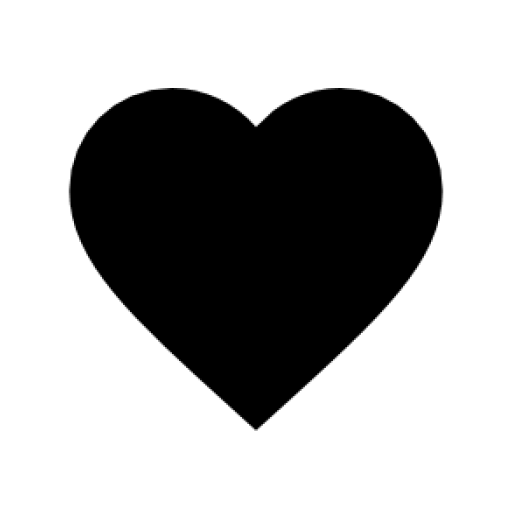
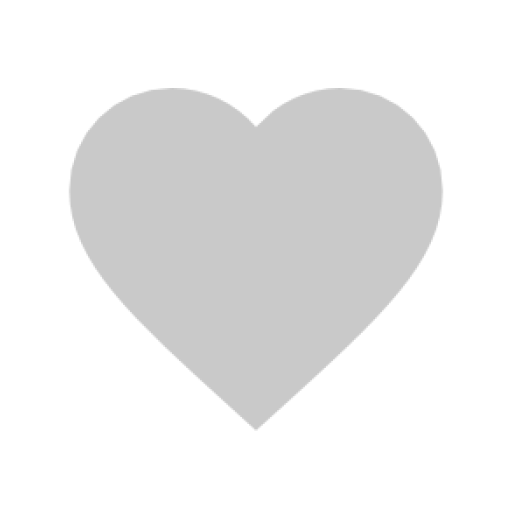
Post View Continue Part 15 - Complete

diff --git a/app/src/main/java/com/example/artem/photoblogtvaclesson/HomeFragment.java b/app/src/main/java/com/example/artem/photoblogtvaclesson/HomeFragment.java
@@ -25,92 +25,143 @@ import java.util.List;
 
 public class HomeFragment extends Fragment {
 
-    private RecyclerView postView;
-
-    private View view;
-
-    private List<BlogPost> blogPosts;
-    private BlogRecyclerAdapter adapter;
+    private RecyclerView blog_list_view;
+    private List<BlogPost> blog_list;
 
     private FirebaseFirestore firebaseFirestore;
-    private FirebaseAuth mAuth;
+    private FirebaseAuth firebaseAuth;
+    private BlogRecyclerAdapter blogRecyclerAdapter;
 
     private DocumentSnapshot lastVisible;
+    private Boolean isFirstPageFirstLoad = true;
 
     public HomeFragment() {
+        // Required empty public constructor
     }
 
-    @Nullable
+
     @Override
-    public View onCreateView(@NonNull LayoutInflater inflater, @Nullable final ViewGroup container, @Nullable Bundle savedInstanceState) {
-        view = inflater.inflate(R.layout.fragment_home, container, false);
+    public View onCreateView(LayoutInflater inflater, final ViewGroup container,
+                             Bundle savedInstanceState) {
 
-        postView = (RecyclerView) view.findViewById(R.id.post_view);
-        blogPosts = new ArrayList<>();
-        adapter = new BlogRecyclerAdapter(blogPosts);
-        postView.setLayoutManager(new LinearLayoutManager(getActivity()));
-        postView.setAdapter(adapter);
+        View view = inflater.inflate(R.layout.fragment_home, container, false);
 
-        mAuth = FirebaseAuth.getInstance();
+        blog_list = new ArrayList<>();
+        blog_list_view = view.findViewById(R.id.post_view);
 
-        if (mAuth.getCurrentUser() != null) {
+        firebaseAuth = FirebaseAuth.getInstance();
+
+        blogRecyclerAdapter = new BlogRecyclerAdapter(blog_list);
+        blog_list_view.setLayoutManager(new LinearLayoutManager(container.getContext()));
+        blog_list_view.setAdapter(blogRecyclerAdapter);
+        blog_list_view.setHasFixedSize(true);
+
+        if(firebaseAuth.getCurrentUser() != null) {
+
             firebaseFirestore = FirebaseFirestore.getInstance();
 
-            postView.addOnScrollListener(new RecyclerView.OnScrollListener() {
+            blog_list_view.addOnScrollListener(new RecyclerView.OnScrollListener() {
                 @Override
-                public void onScrolled(@NonNull RecyclerView recyclerView, int dx, int dy) {
+                public void onScrolled(RecyclerView recyclerView, int dx, int dy) {
                     super.onScrolled(recyclerView, dx, dy);
 
-                    Boolean reachBottom = !recyclerView.canScrollVertically(-1);
+                    Boolean reachedBottom = !recyclerView.canScrollVertically(1);
 
-                    if (reachBottom){
-                        Toast.makeText(container.getContext(), "Reached " + lastVisible.getString("desc"), Toast.LENGTH_SHORT).show();
+                    if(reachedBottom){
+
+                        loadMorePost();
+
                     }
 
-                    loadMorePosts();
                 }
             });
 
             Query firstQuery = firebaseFirestore.collection("Posts").orderBy("timestamp", Query.Direction.DESCENDING).limit(3);
-
-            firstQuery.addSnapshotListener(new EventListener<QuerySnapshot>() {
+            firstQuery.addSnapshotListener(getActivity(), new EventListener<QuerySnapshot>() {
                 @Override
-                public void onEvent(@javax.annotation.Nullable QuerySnapshot documentSnapshots, @javax.annotation.Nullable FirebaseFirestoreException e) {
+                public void onEvent(QuerySnapshot documentSnapshots, FirebaseFirestoreException e) {
 
-                    lastVisible = documentSnapshots.getDocuments().get(documentSnapshots.size() - 1);
-                    for (DocumentChange doc : documentSnapshots.getDocumentChanges()) {
-                        if (doc.getType() == DocumentChange.Type.ADDED) {
-                            BlogPost blogPost = doc.getDocument().toObject(BlogPost.class);
-                            blogPosts.add(blogPost);
-                            adapter.notifyDataSetChanged();
+                    if (!documentSnapshots.isEmpty()) {
+
+                        if (isFirstPageFirstLoad) {
+
+                            lastVisible = documentSnapshots.getDocuments().get(documentSnapshots.size() - 1);
+                            blog_list.clear();
+
                         }
+
+                        for (DocumentChange doc : documentSnapshots.getDocumentChanges()) {
+
+                            if (doc.getType() == DocumentChange.Type.ADDED) {
+
+                                String blogPostId = doc.getDocument().getId();
+                                BlogPost blogPost = doc.getDocument().toObject(BlogPost.class).withId(blogPostId);
+
+                                if (isFirstPageFirstLoad) {
+
+                                    blog_list.add(blogPost);
+
+                                } else {
+
+                                    blog_list.add(0, blogPost);
+
+                                }
+
+
+                                blogRecyclerAdapter.notifyDataSetChanged();
+
+                            }
+                        }
+
+                        isFirstPageFirstLoad = false;
+
                     }
+
                 }
+
             });
+
         }
+
+        // Inflate the layout for this fragment
         return view;
     }
 
-    public void loadMorePosts(){
-        Query nextQuery = firebaseFirestore.collection("Posts")
-                .orderBy("timestamp", Query.Direction.DESCENDING)
-                .startAfter(lastVisible)
-                .limit(3);
+    public void loadMorePost(){
 
-        nextQuery.addSnapshotListener(new EventListener<QuerySnapshot>() {
-            @Override
-            public void onEvent(@javax.annotation.Nullable QuerySnapshot documentSnapshots, @javax.annotation.Nullable FirebaseFirestoreException e) {
-                if (!documentSnapshots.isEmpty()) {
-                    lastVisible = documentSnapshots.getDocuments().get(documentSnapshots.size() - 1);
-                    for (DocumentChange doc : documentSnapshots.getDocumentChanges()) {
-                        if (doc.getType() == DocumentChange.Type.ADDED) {
-                            BlogPost blogPost = doc.getDocument().toObject(BlogPost.class);
-                            blogPosts.add(blogPost);
-                            adapter.notifyDataSetChanged();
+        if(firebaseAuth.getCurrentUser() != null) {
+
+            Query nextQuery = firebaseFirestore.collection("Posts")
+                    .orderBy("timestamp", Query.Direction.DESCENDING)
+                    .startAfter(lastVisible)
+                    .limit(3);
+
+            nextQuery.addSnapshotListener(getActivity(), new EventListener<QuerySnapshot>() {
+                @Override
+                public void onEvent(QuerySnapshot documentSnapshots, FirebaseFirestoreException e) {
+
+                    if (!documentSnapshots.isEmpty()) {
+
+                        lastVisible = documentSnapshots.getDocuments().get(documentSnapshots.size() - 1);
+                        for (DocumentChange doc : documentSnapshots.getDocumentChanges()) {
+
+                            if (doc.getType() == DocumentChange.Type.ADDED) {
+
+                                String blogPostId = doc.getDocument().getId();
+                                BlogPost blogPost = doc.getDocument().toObject(BlogPost.class).withId(blogPostId);
+                                blog_list.add(blogPost);
+
+                                blogRecyclerAdapter.notifyDataSetChanged();
+                            }
+
                         }
                     }
+
                 }
-            }
-        });
+            });
+
+        }
+
     }
+
 }

diff --git a/app/src/main/java/com/example/artem/photoblogtvaclesson/BlogRecyclerAdapter.java b/app/src/main/java/com/example/artem/photoblogtvaclesson/BlogRecyclerAdapter.java
@@ -14,11 +14,15 @@ import com.bumptech.glide.Glide;
 import com.bumptech.glide.request.RequestOptions;
 import com.google.android.gms.tasks.OnCompleteListener;
 import com.google.android.gms.tasks.Task;
+import com.google.firebase.auth.FirebaseAuth;
 import com.google.firebase.firestore.DocumentSnapshot;
+import com.google.firebase.firestore.FieldValue;
 import com.google.firebase.firestore.FirebaseFirestore;
 
 import java.util.Date;
+import java.util.HashMap;
 import java.util.List;
+import java.util.Map;
 
 import de.hdodenhof.circleimageview.CircleImageView;
 
@@ -30,6 +34,7 @@ public class BlogRecyclerAdapter extends RecyclerView.Adapter<BlogRecyclerAdapte
     public Context context;
 
     private FirebaseFirestore firebaseFirestore;
+    private FirebaseAuth firebaseAuth;
 
     @NonNull
     @Override
@@ -37,11 +42,16 @@ public class BlogRecyclerAdapter extends RecyclerView.Adapter<BlogRecyclerAdapte
         View view = LayoutInflater.from(viewGroup.getContext()).inflate(R.layout.blog_list_item, viewGroup, false);
         context = viewGroup.getContext();
         firebaseFirestore = FirebaseFirestore.getInstance();
+        firebaseAuth = FirebaseAuth.getInstance();
         return new ViewHolder(view);
     }
 
     @Override
     public void onBindViewHolder(@NonNull final ViewHolder holder, int position) {
+
+        final String blogPostID = blogPosts.get(position).BlogPostID;
+        final String currentUserId = firebaseAuth.getCurrentUser().getUid();
+
         String user_id = blogPosts.get(position).getUser_id();
         firebaseFirestore.collection("Users").document(user_id).get().addOnCompleteListener(new OnCompleteListener<DocumentSnapshot>() {
             @Override
@@ -59,13 +69,27 @@ public class BlogRecyclerAdapter extends RecyclerView.Adapter<BlogRecyclerAdapte
 
         String description = blogPosts.get(position).getDesc();
         String image_url = blogPosts.get(position).getImage_url();
+        String thumb_url = blogPosts.get(position).getImage_thumb();
 
         holder.setTextDescription(description);
-        holder.setImage(image_url);
+        holder.setImage(image_url, thumb_url);
 
         long milliseconds = blogPosts.get(position).getTimestamp().getTime();
         String dateString = DateFormat.format("MM/dd/yyyy", new Date(milliseconds)).toString();
         holder.setTime(dateString);
+
+        holder.likeBtn.setOnClickListener(new View.OnClickListener() {
+            @Override
+            public void onClick(View v) {
+
+                Map<String, Object> likesMap = new HashMap<>();
+                likesMap.put("timestamp", FieldValue.serverTimestamp());
+                firebaseFirestore.collection("Posts/" + blogPostID + "/Likes").document(currentUserId)
+                        .set(likesMap);
+
+            }
+        });
+
     }
 
     @Override
@@ -77,7 +101,7 @@ public class BlogRecyclerAdapter extends RecyclerView.Adapter<BlogRecyclerAdapte
     public class ViewHolder extends RecyclerView.ViewHolder {
 
         private TextView postUserName, postTime, postDescription;
-        private ImageView postImage;
+        private ImageView postImage, likeBtn;
         private CircleImageView postUserImage;
         private View view;
 
@@ -88,7 +112,10 @@ public class BlogRecyclerAdapter extends RecyclerView.Adapter<BlogRecyclerAdapte
             postTime = (TextView) view.findViewById(R.id.post_time);
             postDescription = (TextView) view.findViewById(R.id.post_description);
             postImage = (ImageView) view.findViewById(R.id.post_image);
+            likeBtn = (ImageView) view.findViewById(R.id.blog_like_btn);
             postUserImage = (CircleImageView) view.findViewById(R.id.post_user_image);
+
+
         }
 
         public void setUserName(String name){
@@ -103,11 +130,14 @@ public class BlogRecyclerAdapter extends RecyclerView.Adapter<BlogRecyclerAdapte
         public void setUserImage(String downloadUrl){
             Glide.with(context).load(downloadUrl).into(postUserImage);
         }
-        public void setImage(String downloadUrl){
+        public void setImage(String downloadUrl, String thumb_url){
             RequestOptions placeholder = new RequestOptions();
             placeholder.placeholder(R.drawable.user_default);
 
-            Glide.with(context).applyDefaultRequestOptions(placeholder).load(downloadUrl).into(postImage);
+            Glide.with(context).applyDefaultRequestOptions(placeholder)
+                    .load(downloadUrl)
+                    .thumbnail(Glide.with(context).load(thumb_url))
+                    .into(postImage);
         }
     }
 }

diff --git a/app/src/main/java/com/example/artem/photoblogtvaclesson/BlogPostID.java b/app/src/main/java/com/example/artem/photoblogtvaclesson/BlogPostID.java
@@ -1,0 +1,16 @@
+package com.example.artem.photoblogtvaclesson;
+
+import com.google.firebase.firestore.Exclude;
+
+import io.reactivex.annotations.NonNull;
+
+public class BlogPostID {
+
+    @Exclude
+    public String BlogPostID;
+
+    public <T extends BlogPostID> T withId(@NonNull final String id){
+        this.BlogPostID = id;
+        return (T) this;
+    }
+}

diff --git a/app/src/main/java/com/example/artem/photoblogtvaclesson/BlogPost.java b/app/src/main/java/com/example/artem/photoblogtvaclesson/BlogPost.java
@@ -2,7 +2,7 @@ package com.example.artem.photoblogtvaclesson;
 
 import java.util.Date;
 
-public class BlogPost {
+public class BlogPost extends BlogPostID{
     public String user_id, image_url, desc, image_thumb;
     public Date timestamp;
 
